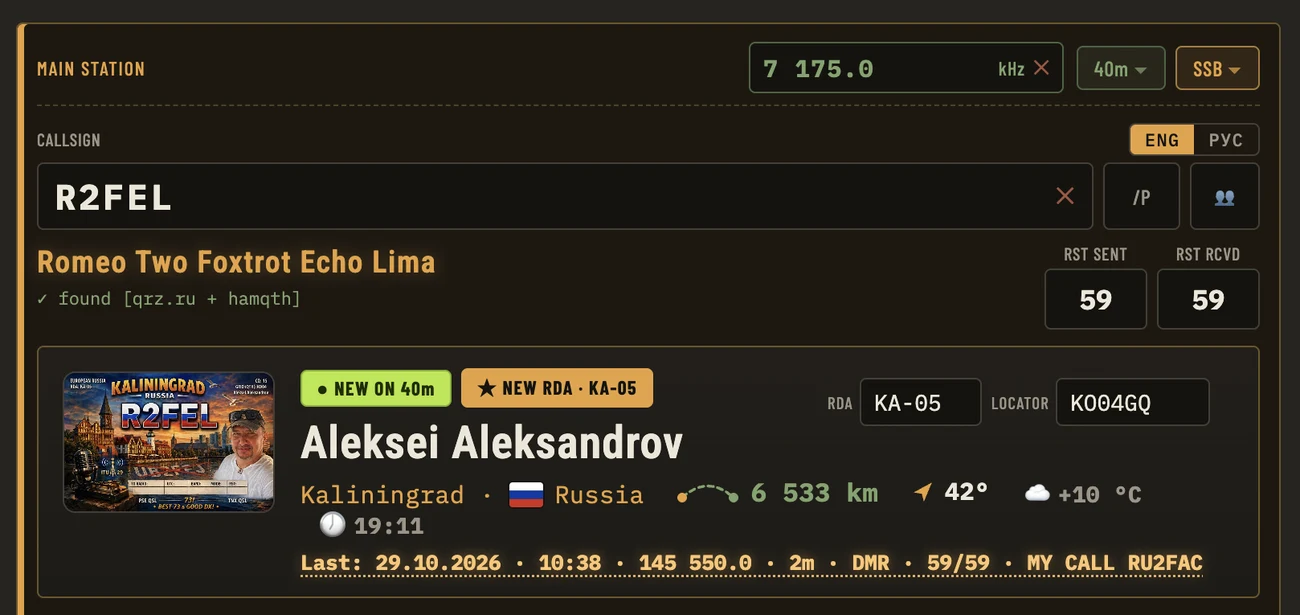
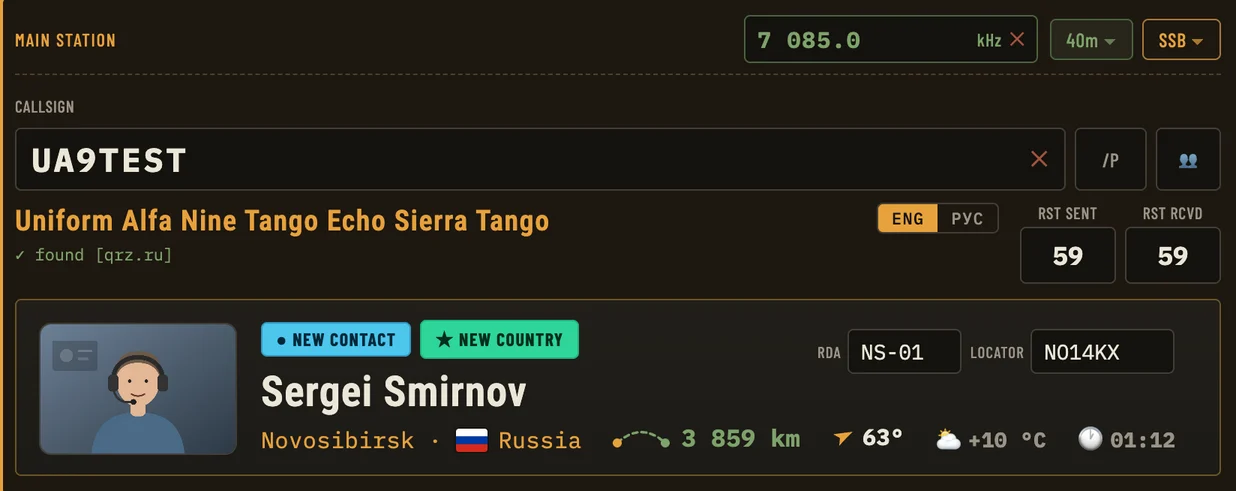
Версия 1.0.86: кнопки на новый релиз, новые картинки, latest.json

diff --git a/ru/index.html b/ru/index.html
@@ -595,22 +595,22 @@
     <p class="lead-dim"><span class="en">No subscription, no cloud: your log and your passwords stay with you.</span><span class="ru">Без подписок и без облака: журнал и пароли остаются у вас.</span></p>
     </div>
     <div class="stage">
-      <img class="desk ru" src="../img/desk-ru.webp" width="1300" height="618" alt="R2FEL HamLog на компьютере: найденный позывной W1AW с фото, расстоянием, погодой и временем">
-      <img class="desk en" src="../img/desk-en.webp" width="1300" height="615" alt="R2FEL HamLog on the computer: a callsign found, with name, town, distance, weather and local time">
+      <img class="desk ru" src="../img/desk-ru.webp" width="1236" height="491" alt="R2FEL HamLog на компьютере: найденный позывной: имя, город, расстояние, погода и местное время">
+      <img class="desk en" src="../img/desk-en.webp" width="1236" height="491" alt="R2FEL HamLog on the computer: a callsign found: name, town, distance, weather and local time">
       <div class="phone"><img class="en" src="../img/phone-entry.webp" width="460" height="936" alt="R2FEL HamLog on the phone"><img class="ru" src="../img/phone-entry-ru.webp" width="460" height="936" alt="R2FEL HamLog на телефоне"></div>
     </div>
     </div>
 
     <div class="dl" id="downloads">
-      <a class="primary" data-file="mac" href="https://github.com/r2fel/hamlog/releases"><span class="os">macOS</span><span class="for"><span class="en">Apple Silicon (M1 and newer)</span><span class="ru">Apple Silicon (M1 и новее)</span></span><span class="file"></span></a>
-      <a data-file="macintel" href="https://github.com/r2fel/hamlog/releases"><span class="os">macOS</span><span class="for"><span class="en">Intel Mac</span><span class="ru">Mac с процессором Intel</span></span><span class="file"></span></a>
-      <a data-file="win" href="https://github.com/r2fel/hamlog/releases"><span class="os">Windows 10 / 11</span><span class="for"><span class="en">64-bit</span><span class="ru">64 бит</span></span><span class="file"></span></a>
-      <a data-file="win78" href="https://github.com/r2fel/hamlog/releases"><span class="os">Windows 7 / 8</span><span class="for"><span class="en">also 8.1 and any 32-bit Windows</span><span class="ru">а также 8.1 и любая 32-битная</span></span><span class="file"></span></a>
-      <a data-file="apk" href="https://github.com/r2fel/hamlog/releases"><span class="os">Android</span><span class="for"><span class="en">Android 7 and newer</span><span class="ru">Android 7 и новее</span></span><span class="file"></span></a>
-      <a data-file="ipa" href="https://github.com/r2fel/hamlog/releases"><span class="os">iPhone</span><span class="for"><span class="en">iOS 15 and newer — steps below</span><span class="ru">iOS 15 и новее — шаги ниже</span></span><span class="file"></span></a>
+      <a class="primary" data-file="mac" href="https://r2fel.com/download/"><span class="os">macOS</span><span class="for"><span class="en">Apple Silicon (M1 and newer)</span><span class="ru">Apple Silicon (M1 и новее)</span></span><span class="file"></span></a>
+      <a data-file="macintel" href="https://r2fel.com/download/"><span class="os">macOS</span><span class="for"><span class="en">Intel Mac</span><span class="ru">Mac с процессором Intel</span></span><span class="file"></span></a>
+      <a data-file="win" href="https://r2fel.com/download/"><span class="os">Windows 10 / 11</span><span class="for"><span class="en">64-bit</span><span class="ru">64 бит</span></span><span class="file"></span></a>
+      <a data-file="win78" href="https://r2fel.com/download/"><span class="os">Windows 7 / 8</span><span class="for"><span class="en">also 8.1 and any 32-bit Windows</span><span class="ru">а также 8.1 и любая 32-битная</span></span><span class="file"></span></a>
+      <a data-file="apk" href="https://r2fel.com/download/"><span class="os">Android</span><span class="for"><span class="en">Android 7 and newer</span><span class="ru">Android 7 и новее</span></span><span class="file"></span></a>
+      <a data-file="ipa" href="https://r2fel.com/download/"><span class="os">iPhone</span><span class="for"><span class="en">iOS 15 and newer — steps below</span><span class="ru">iOS 15 и новее — шаги ниже</span></span><span class="file"></span></a>
     </div>
     <p class="dl-meta">
-      <span class="en">Version</span><span class="ru">Версия</span> <span class="ver" id="ver">1.0.85</span> ·
+      <span class="en">Version</span><span class="ru">Версия</span> <span class="ver" id="ver">1.0.86</span> ·
       <a href="https://github.com/r2fel/hamlog/releases"><span class="en">all versions on GitHub</span><span class="ru">все версии на GitHub</span></a>
     </p>
     <p class="dl-meta">
@@ -654,8 +654,8 @@
     <p class="kicker"><span class="en">On the computer</span><span class="ru">На компьютере</span></p>
     <h2 class="sec-h"><span class="en">The window that does the work</span><span class="ru">Окно, которое работает за вас</span></h2>
     <div class="shot lv">
-      <img class="en" src="../img/desk-en.webp" width="1300" height="615" alt="R2FEL HamLog: a callsign found, with name, town, distance, weather and local time">
-      <img class="ru" src="../img/desk-ru.webp" width="1300" height="618" alt="R2FEL HamLog: найденный позывной — имя, город, расстояние, погода и местное время">
+      <img class="en" src="../img/desk-en.webp" width="1236" height="491" alt="R2FEL HamLog: a callsign found: name, town, distance, weather and local time">
+      <img class="ru" src="../img/desk-ru.webp" width="1236" height="491" alt="R2FEL HamLog: найденный позывной — имя, город, расстояние, погода и местное время">
       <div class="lv-fx" aria-hidden="true"><span class="lv-hl i1" style="left:2.5%;top:25.9%;width:82.0%;height:12.3%"></span><span class="lv-hl i2" style="left:22.4%;top:67.3%;width:28.9%;height:21.0%"></span><span class="lv-hl i3" style="left:4.4%;top:59.6%;width:17.1%;height:24.6%"></span><span class="lv-hl i4" style="left:22.7%;top:59.1%;width:28.0%;height:7.8%"></span><span class="lv-hl i5" style="left:51.0%;top:76.2%;width:26.2%;height:8.6%"></span><span class="lv-hl i6" style="left:78.0%;top:76.2%;width:11.5%;height:8.6%"></span><span class="lv-cap i1"><span class="lv-dots"><i class="on"></i><i></i><i></i><i></i><i></i><i></i></span><span class="en">Type a callsign — the rest fills in itself</span><span class="ru">Набрали позывной — остальное подставится само</span></span><span class="lv-cap i2"><span class="lv-dots"><i></i><i class="on"></i><i></i><i></i><i></i><i></i></span><span class="en">Name, town and country from the callbook</span><span class="ru">Имя, город и страна — из справочника</span></span><span class="lv-cap i3"><span class="lv-dots"><i></i><i></i><i class="on"></i><i></i><i></i><i></i></span><span class="en">The station’s photo</span><span class="ru">Фото корреспондента</span></span><span class="lv-cap i4"><span class="lv-dots"><i></i><i></i><i></i><i class="on"></i><i></i><i></i></span><span class="en">New contact, new RDA district — you see it at once</span><span class="ru">Новый позывной и новый район RDA — видно сразу</span></span><span class="lv-cap i5"><span class="lv-dots"><i></i><i></i><i></i><i></i><i class="on"></i><i></i></span><span class="en">Distance and the heading for your antenna</span><span class="ru">Расстояние и азимут, куда крутить антенну</span></span><span class="lv-cap i6"><span class="lv-dots"><i></i><i></i><i></i><i></i><i></i><i class="on"></i></span><span class="en">Weather and local time over there</span><span class="ru">Погода и местное время у корреспондента</span></span><span class="lv-glint"></span><span class="lv-bar"></span></div>
     </div>
     <div class="gwrap">
@@ -775,7 +775,7 @@
             <span class="rv-go"><span class="en">Watch on YouTube ↗</span><span class="ru">Смотреть на YouTube ↗</span></span></span>
         </a>
         <a class="rv-card" href="https://youtu.be/jHyAE3GIDko" target="_blank" rel="noopener">
-          <span class="rv-pic is-desk"><img class="en" src="../img/desk-en.webp" alt="" width="1300" height="615" loading="lazy"><img class="ru" src="../img/desk-ru.webp" alt="" width="1300" height="618" loading="lazy"></span>
+          <span class="rv-pic is-desk"><img class="en" src="../img/desk-en.webp" alt="" width="1236" height="491" loading="lazy"><img class="ru" src="../img/desk-ru.webp" alt="" width="1236" height="491" loading="lazy"></span>
           <span class="rv-body"><span class="rv-name"><span class="en">The computer program: Mac and Windows</span><span class="ru">Программа для компьютера: Mac и Windows</span></span>
             <span class="rv-go"><span class="en">Watch on YouTube ↗</span><span class="ru">Смотреть на YouTube ↗</span></span></span>
         </a>
@@ -929,7 +929,7 @@
         links[i].querySelector('.file').textContent = name;
       }
     }
-    var builtIn = '1.0.85';
+    var builtIn = '1.0.86';
     setVersion(builtIn);
     // Only ever forward: the service keeps its answer for an hour, and
     // right after a release it still names the one before — taking that would

diff --git a/index.html b/index.html
@@ -603,22 +603,22 @@
     <p class="lead-dim"><span class="en">No subscription, no cloud: your log and your passwords stay with you.</span><span class="ru">Без подписок и без облака: журнал и пароли остаются у вас.</span></p>
     </div>
     <div class="stage">
-      <img class="desk ru" src="img/desk-ru.webp" width="1300" height="618" alt="R2FEL HamLog на компьютере: найденный позывной W1AW с фото, расстоянием, погодой и временем">
-      <img class="desk en" src="img/desk-en.webp" width="1300" height="615" alt="R2FEL HamLog on the computer: a callsign found, with name, town, distance, weather and local time">
+      <img class="desk ru" src="img/desk-ru.webp" width="1236" height="491" alt="R2FEL HamLog на компьютере: найденный позывной: имя, город, расстояние, погода и местное время">
+      <img class="desk en" src="img/desk-en.webp" width="1236" height="491" alt="R2FEL HamLog on the computer: a callsign found: name, town, distance, weather and local time">
       <div class="phone"><img class="en" src="img/phone-entry.webp" width="460" height="936" alt="R2FEL HamLog on the phone"><img class="ru" src="img/phone-entry-ru.webp" width="460" height="936" alt="R2FEL HamLog на телефоне"></div>
     </div>
     </div>
 
     <div class="dl" id="downloads">
-      <a class="primary" data-file="mac" href="https://github.com/r2fel/hamlog/releases"><span class="os">macOS</span><span class="for"><span class="en">Apple Silicon (M1 and newer)</span><span class="ru">Apple Silicon (M1 и новее)</span></span><span class="file"></span></a>
-      <a data-file="macintel" href="https://github.com/r2fel/hamlog/releases"><span class="os">macOS</span><span class="for"><span class="en">Intel Mac</span><span class="ru">Mac с процессором Intel</span></span><span class="file"></span></a>
-      <a data-file="win" href="https://github.com/r2fel/hamlog/releases"><span class="os">Windows 10 / 11</span><span class="for"><span class="en">64-bit</span><span class="ru">64 бит</span></span><span class="file"></span></a>
-      <a data-file="win78" href="https://github.com/r2fel/hamlog/releases"><span class="os">Windows 7 / 8</span><span class="for"><span class="en">also 8.1 and any 32-bit Windows</span><span class="ru">а также 8.1 и любая 32-битная</span></span><span class="file"></span></a>
-      <a data-file="apk" href="https://github.com/r2fel/hamlog/releases"><span class="os">Android</span><span class="for"><span class="en">Android 7 and newer</span><span class="ru">Android 7 и новее</span></span><span class="file"></span></a>
-      <a data-file="ipa" href="https://github.com/r2fel/hamlog/releases"><span class="os">iPhone</span><span class="for"><span class="en">iOS 15 and newer — steps below</span><span class="ru">iOS 15 и новее — шаги ниже</span></span><span class="file"></span></a>
+      <a class="primary" data-file="mac" href="https://r2fel.com/download/"><span class="os">macOS</span><span class="for"><span class="en">Apple Silicon (M1 and newer)</span><span class="ru">Apple Silicon (M1 и новее)</span></span><span class="file"></span></a>
+      <a data-file="macintel" href="https://r2fel.com/download/"><span class="os">macOS</span><span class="for"><span class="en">Intel Mac</span><span class="ru">Mac с процессором Intel</span></span><span class="file"></span></a>
+      <a data-file="win" href="https://r2fel.com/download/"><span class="os">Windows 10 / 11</span><span class="for"><span class="en">64-bit</span><span class="ru">64 бит</span></span><span class="file"></span></a>
+      <a data-file="win78" href="https://r2fel.com/download/"><span class="os">Windows 7 / 8</span><span class="for"><span class="en">also 8.1 and any 32-bit Windows</span><span class="ru">а также 8.1 и любая 32-битная</span></span><span class="file"></span></a>
+      <a data-file="apk" href="https://r2fel.com/download/"><span class="os">Android</span><span class="for"><span class="en">Android 7 and newer</span><span class="ru">Android 7 и новее</span></span><span class="file"></span></a>
+      <a data-file="ipa" href="https://r2fel.com/download/"><span class="os">iPhone</span><span class="for"><span class="en">iOS 15 and newer — steps below</span><span class="ru">iOS 15 и новее — шаги ниже</span></span><span class="file"></span></a>
     </div>
     <p class="dl-meta">
-      <span class="en">Version</span><span class="ru">Версия</span> <span class="ver" id="ver">1.0.85</span> ·
+      <span class="en">Version</span><span class="ru">Версия</span> <span class="ver" id="ver">1.0.86</span> ·
       <a href="https://github.com/r2fel/hamlog/releases"><span class="en">all versions on GitHub</span><span class="ru">все версии на GitHub</span></a>
     </p>
     <p class="dl-meta">
@@ -662,8 +662,8 @@
     <p class="kicker"><span class="en">On the computer</span><span class="ru">На компьютере</span></p>
     <h2 class="sec-h"><span class="en">The window that does the work</span><span class="ru">Окно, которое работает за вас</span></h2>
     <div class="shot lv">
-      <img class="en" src="img/desk-en.webp" width="1300" height="615" alt="R2FEL HamLog: a callsign found, with name, town, distance, weather and local time">
-      <img class="ru" src="img/desk-ru.webp" width="1300" height="618" alt="R2FEL HamLog: найденный позывной — имя, город, расстояние, погода и местное время">
+      <img class="en" src="img/desk-en.webp" width="1236" height="491" alt="R2FEL HamLog: a callsign found: name, town, distance, weather and local time">
+      <img class="ru" src="img/desk-ru.webp" width="1236" height="491" alt="R2FEL HamLog: найденный позывной — имя, город, расстояние, погода и местное время">
       <div class="lv-fx" aria-hidden="true"><span class="lv-hl i1" style="left:2.5%;top:25.9%;width:82.0%;height:12.3%"></span><span class="lv-hl i2" style="left:22.4%;top:67.3%;width:28.9%;height:21.0%"></span><span class="lv-hl i3" style="left:4.4%;top:59.6%;width:17.1%;height:24.6%"></span><span class="lv-hl i4" style="left:22.7%;top:59.1%;width:28.0%;height:7.8%"></span><span class="lv-hl i5" style="left:51.0%;top:76.2%;width:26.2%;height:8.6%"></span><span class="lv-hl i6" style="left:78.0%;top:76.2%;width:11.5%;height:8.6%"></span><span class="lv-cap i1"><span class="lv-dots"><i class="on"></i><i></i><i></i><i></i><i></i><i></i></span><span class="en">Type a callsign — the rest fills in itself</span><span class="ru">Набрали позывной — остальное подставится само</span></span><span class="lv-cap i2"><span class="lv-dots"><i></i><i class="on"></i><i></i><i></i><i></i><i></i></span><span class="en">Name, town and country from the callbook</span><span class="ru">Имя, город и страна — из справочника</span></span><span class="lv-cap i3"><span class="lv-dots"><i></i><i></i><i class="on"></i><i></i><i></i><i></i></span><span class="en">The station’s photo</span><span class="ru">Фото корреспондента</span></span><span class="lv-cap i4"><span class="lv-dots"><i></i><i></i><i></i><i class="on"></i><i></i><i></i></span><span class="en">New contact, new RDA district — you see it at once</span><span class="ru">Новый позывной и новый район RDA — видно сразу</span></span><span class="lv-cap i5"><span class="lv-dots"><i></i><i></i><i></i><i></i><i class="on"></i><i></i></span><span class="en">Distance and the heading for your antenna</span><span class="ru">Расстояние и азимут, куда крутить антенну</span></span><span class="lv-cap i6"><span class="lv-dots"><i></i><i></i><i></i><i></i><i></i><i class="on"></i></span><span class="en">Weather and local time over there</span><span class="ru">Погода и местное время у корреспондента</span></span><span class="lv-glint"></span><span class="lv-bar"></span></div>
     </div>
     <div class="gwrap">
@@ -783,7 +783,7 @@
             <span class="rv-go"><span class="en">Watch on YouTube ↗</span><span class="ru">Смотреть на YouTube ↗</span></span></span>
         </a>
         <a class="rv-card" href="https://youtu.be/jHyAE3GIDko" target="_blank" rel="noopener">
-          <span class="rv-pic is-desk"><img class="en" src="img/desk-en.webp" alt="" width="1300" height="615" loading="lazy"><img class="ru" src="img/desk-ru.webp" alt="" width="1300" height="618" loading="lazy"></span>
+          <span class="rv-pic is-desk"><img class="en" src="img/desk-en.webp" alt="" width="1236" height="491" loading="lazy"><img class="ru" src="img/desk-ru.webp" alt="" width="1236" height="491" loading="lazy"></span>
           <span class="rv-body"><span class="rv-name"><span class="en">The computer program: Mac and Windows</span><span class="ru">Программа для компьютера: Mac и Windows</span></span>
             <span class="rv-go"><span class="en">Watch on YouTube ↗</span><span class="ru">Смотреть на YouTube ↗</span></span></span>
         </a>
@@ -937,7 +937,7 @@
         links[i].querySelector('.file').textContent = name;
       }
     }
-    var builtIn = '1.0.85';
+    var builtIn = '1.0.86';
     setVersion(builtIn);
     // Only ever forward: the service keeps its answer for an hour, and
     // right after a release it still names the one before — taking that would
